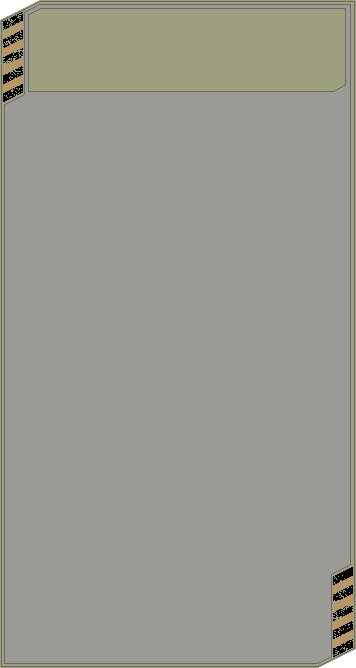
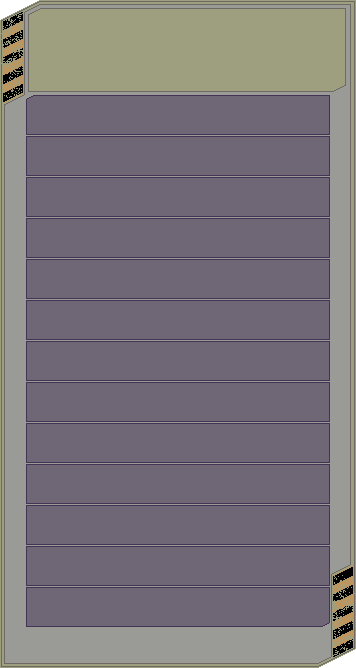
Added a crafting button

diff --git a/ui/ui.go b/ui/ui.go
@@ -33,13 +33,22 @@ type Ui struct {
 	inventoryBgSprite      *ebiten.Image
 	equipmentBgSprite      *ebiten.Image
 	materialsBgSprite      *ebiten.Image
+	craftButtonPressed     *ebiten.Image
+	craftButtonUnpressed   *ebiten.Image
+	craftButtonUnavailable *ebiten.Image
+	craftPressedCounter    float64
 }
 
 const (
-	invX, invY                     = 50, 50
-	equX, equY                     = (globals.ScreenWidth / 3), 50
-	matX, matY                     = (globals.ScreenWidth/3 + globals.ScreenWidth/3 + 50), 50
-	headingOffsetX, headingOffsetY = 30, 5
+	invX, invY                             = 50, 50
+	equX, equY                             = (globals.ScreenWidth / 3), 50
+	matX, matY                             = (globals.ScreenWidth/3 + globals.ScreenWidth/3 + 50), 50
+	headingOffsetX, headingOffsetY         = 30, 5
+	matItemOffsetY                         = 55
+	matItemListOffsetX, matItemListOffsetY = 32, 91
+	matTextSize                            = 50
+	cbX, cbY, cbW, cbH                     = 118, 590, 119, 72
+	craftPressedDuration                   = 0.25
 )
 
 func (u *Ui) Init() {
@@ -53,10 +62,10 @@ func (u *Ui) Init() {
 	u.inventoryItems = []InventorySlotUi{}
 	u.craftButton = basics.FloatRectUI{
 		Name:   "CRAFT",
-		X:      (globals.ScreenWidth/3 + globals.ScreenWidth/3 + float64(u.xOffset)),
-		Y:      (0 + float64(u.yOffset+500)),
-		Width:  (globals.ScreenWidth / 3) - float64(2*u.xOffset),
-		Height: 100,
+		X:      matX + cbX,
+		Y:      matY + cbY,
+		Width:  cbW,
+		Height: cbH,
 	}
 
 	u.craftingBench = &crafting.CraftingBench{}
@@ -76,11 +85,32 @@ func (u *Ui) Init() {
 		u.equipmentBgSprite = equbg
 	}
 
-	matbg, _, materr := ebitenutil.NewImageFromFile("images/inventorypanel.png")
+	matbg, _, materr := ebitenutil.NewImageFromFile("images/materialspanel.png")
 	if materr != nil {
 		log.Fatal(materr)
 	} else {
 		u.materialsBgSprite = matbg
+	}
+
+	cbu, _, cbuerr := ebitenutil.NewImageFromFile("images/craftButtonUnavailable.png")
+	if cbuerr != nil {
+		log.Fatal(cbuerr)
+	} else {
+		u.craftButtonUnavailable = cbu
+	}
+
+	cbup, _, cbuperr := ebitenutil.NewImageFromFile("images/craftButtonUnpressed.png")
+	if cbuperr != nil {
+		log.Fatal(cbuperr)
+	} else {
+		u.craftButtonUnpressed = cbup
+	}
+
+	cbp, _, cbperr := ebitenutil.NewImageFromFile("images/craftButtonPressed.png")
+	if cbperr != nil {
+		log.Fatal(cbperr)
+	} else {
+		u.craftButtonPressed = cbp
 	}
 
 	fontLib := etxt.NewFontLibrary()
@@ -112,7 +142,6 @@ func (u *Ui) Init() {
 }
 
 func (u *Ui) ReadInput() {
-
 	x, y := ebiten.CursorPosition()
 	u.cursorPos.X = float64(x)
 	u.cursorPos.Y = float64(y)
@@ -128,7 +157,7 @@ func (u *Ui) ReadInput() {
 	}
 }
 
-func (u *Ui) Update() error {
+func (u *Ui) Update(deltaTime float64) error {
 
 	if len(globals.GetPlayerData().GetInventory().GetItems()) != u.currentItemStoreLength {
 
@@ -176,9 +205,17 @@ func (u *Ui) Update() error {
 		}
 	}
 
-	if u.craftButton.IsClicked(u.cursorClickPos) && globals.GetPlayerData().CheckIfInCraftZone() {
+	if u.craftButton.IsClicked(u.cursorClickPos) && globals.GetPlayerData().CheckIfInCraftZone() && u.mouseClick {
+		u.craftPressedCounter = craftPressedDuration
 		u.craftingBench.CraftItem()
+		u.mouseClick = false
 	}
+
+	if u.craftPressedCounter > 0 {
+		u.craftPressedCounter -= deltaTime
+	}
+
+	fmt.Println(u.craftPressedCounter)
 
 	return nil
 }
@@ -236,11 +273,24 @@ func (u *Ui) Draw(screen *ebiten.Image) {
 				tempVal = val
 			}
 
-			u.txtRenderer.Draw(fmt.Sprintf("%d x %s", tempVal, v), ((globals.ScreenWidth/3 + globals.ScreenWidth/3) + u.xOffset*2), (0 + u.yOffset*2 + u.characterOffset*(i+2)))
+			u.txtRenderer.SetSizePx(matTextSize)
+			u.txtRenderer.Draw(fmt.Sprintf("%d x %s", tempVal, v), (matX + matItemListOffsetX), (matY+matItemListOffsetY)+matItemOffsetY*(i))
 		}
 
+		cbop := &ebiten.DrawImageOptions{}
+		cbop.GeoM.Translate(matX+cbX, matY+cbY)
 		// draw craft button
 		if globals.GetPlayerData().CheckIfInCraftZone() {
+			if u.craftPressedCounter > 0 {
+				screen.DrawImage(u.craftButtonPressed, cbop)
+			} else {
+				screen.DrawImage(u.craftButtonUnpressed, cbop)
+			}
+
+		} else {
+			screen.DrawImage(u.craftButtonUnavailable, cbop)
+		}
+		if globals.Debug {
 			buttonDrawColor := color.RGBA{12, 159, 7, 255}
 			ebitenutil.DrawRect(
 				screen,

diff --git a/scenes/overworldScene.go b/scenes/overworldScene.go
@@ -210,7 +210,7 @@ func (o *OverworldScene) ReadInput() {
 
 func (o *OverworldScene) Update(state *GameState, deltaTime float64) error {
 	o.entityManager.Update(deltaTime)
-	o.ui.Update()
+	o.ui.Update(deltaTime)
 
 	if o.menuBtn {
 		t := &TitleScene{}
